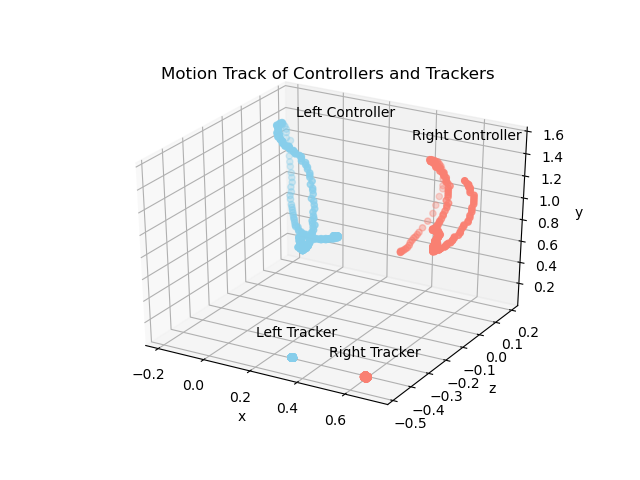
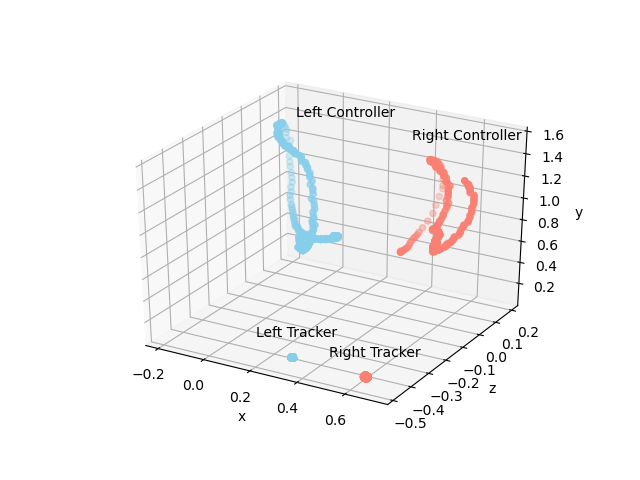
add draw.py: draw scatter plot modify motion_analysis.py: analyze event and trial

Changed region(s): [[0.25, 0.125, 0.7812, 0.1875]]

diff --git a/motion_analysis.py b/motion_analysis.py
@@ -1,6 +1,7 @@
 import os
 import pandas as pd
 from get_user_feature import get_all_users
+from util.draw import draw_scatter, draw_scatter_multi
 
 
 # save all motion data from folder:data_event
@@ -51,9 +52,17 @@ def strip_dataset(df_result, file_name):
     return df_stripped
 
 
-def analyze_event(df, event_type):
-    df_t = df[df.event_type == event_type]
-    # print(df_t.describe())
+def analyze_event(df, uid, event_type):
+    df_t = df[(df.event_type == event_type) & (df.uid == uid)]
+    cut_list.append(df_t['cut_length'].mean())
+    x_cut.append(str(uid) + '-' + str(event_type))
+
+
+def analyze_trial(df, uid, event_type, trial):
+    df_t = df[(df.event_type == event_type) & (df.uid == uid) & (df.trial == trial)]
+    trial_list.append(df_t['cut_length'].mean())
+    x_trial.append(str(event_type) + '-' + str(trial))
+    print('uid:', uid, ' event_type:', event_type, ' trial:', trial, ' cut_length:', df_t['cut_length'].mean())
 
 
 if __name__ == '__main__':
@@ -66,7 +75,21 @@ if __name__ == '__main__':
         df_s = strip_dataset(df_r, 'Data_stripped.csv')
 
     # Analyze Event
-    # i: event type (include 1,2,3)
-    # df_all = pd.read_csv(filename, encoding='gbk')
-    # for i in range(1, 4):
-    #     analyze_event(df_all, i)
+    df_all = pd.read_csv(filename, encoding='gbk')
+    x_cut = []
+    cut_list = []
+    x_trial = []
+    trial_list_all = []
+    for i in range(1, 4):  # uid
+        x_trial = []
+        trial_list = []
+        for j in range(1, 4):  # event_type
+            analyze_event(df_all, i, j)
+
+            # Analyze Trial
+            for k in range(1, 3):  # trial
+                analyze_trial(df_all, i, j, k)
+        trial_list_all.append(trial_list)
+        # draw_scatter(x_trial, trial_list, 'event-trial', 'cut-length')
+    draw_scatter_multi(x_trial, trial_list_all, 'event-trial', 'cut-length')
+    draw_scatter(x_cut, cut_list, 'uid-event', 'cut-length')

diff --git a/util/draw.py b/util/draw.py
@@ -1,0 +1,32 @@
+import matplotlib.pyplot as plt
+
+
+# x_axis: str list for x axis
+def draw_scatter(x_axis, y, x_label, y_label):
+    font2 = {'family': 'Times New Roman',
+             'weight': 'normal',
+             'size': 20,
+             }
+    x = range(len(y))
+    plt.scatter(x, y, c='b', alpha=0.5)
+    plt.xlabel(x_label, font2)
+    plt.ylabel(y_label, font2)
+    plt.xticks(x, x_axis)
+    plt.tick_params(labelsize=14)  # 刻度字体大小14
+    plt.show()
+
+
+# x_axis: str list for x axis
+def draw_scatter_multi(x_axis, y_list, x_label, y_label):
+    font2 = {'family': 'Times New Roman',
+             'weight': 'normal',
+             'size': 20,
+             }
+    x = range(len(y_list[0]))
+    for i in range(len(y_list)):
+        plt.scatter(x, y_list[i], c='b', alpha=float((i + 1) / len(y_list)))
+    plt.xlabel(x_label, font2)
+    plt.ylabel(y_label, font2)
+    plt.xticks(x, x_axis)
+    plt.tick_params(labelsize=14)  # 刻度字体大小14
+    plt.show()

diff --git a/util/draw_cut.py b/util/draw_cut.py
@@ -11,7 +11,7 @@ ax = fig.gca(projection='3d')
 ax.set_xlabel('x')
 ax.set_ylabel("z")
 ax.set_zlabel("y")
-plt.title('Motion Track of Controllers and Trackers', fontsize=12)
+# plt.title('Motion Track of Controllers and Trackers', fontsize=12)
 
 # left controller
 lc_x = list()
